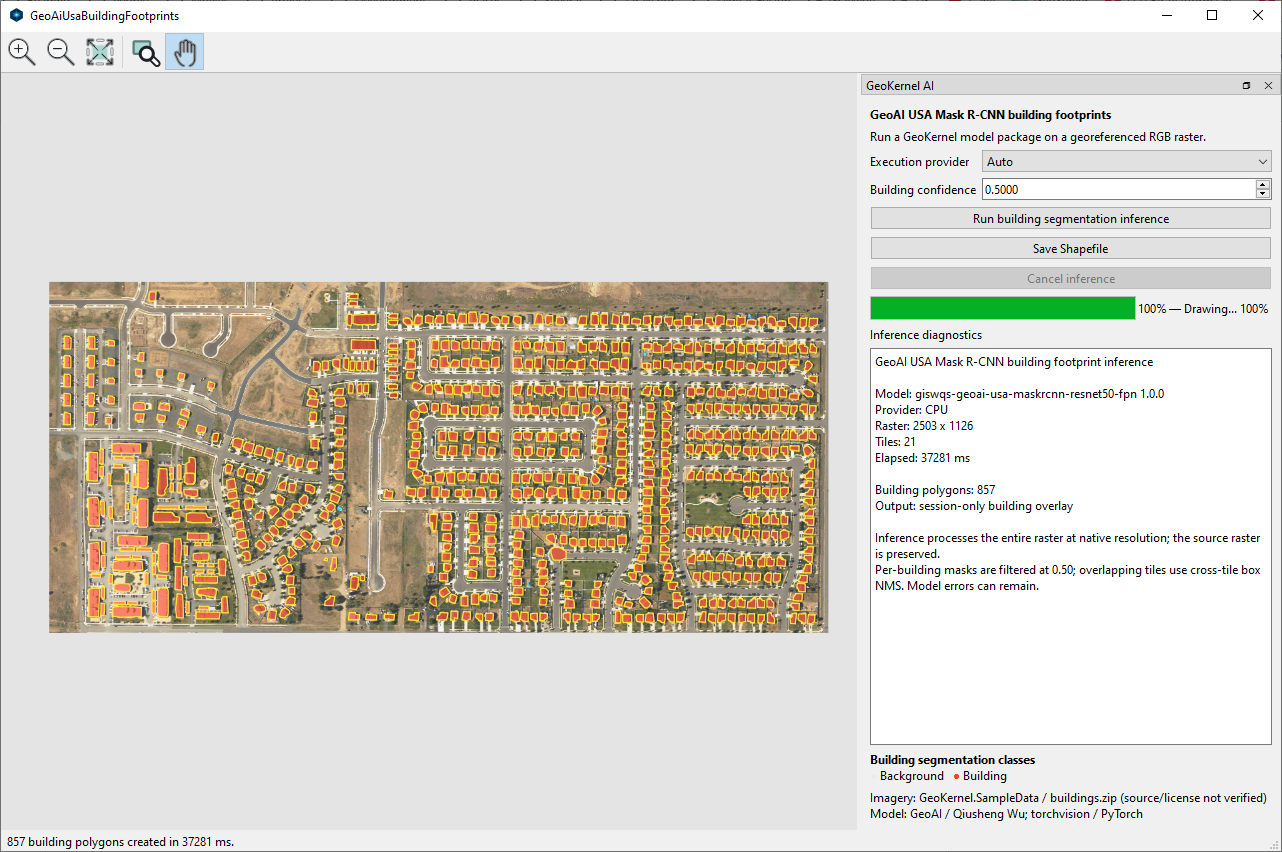
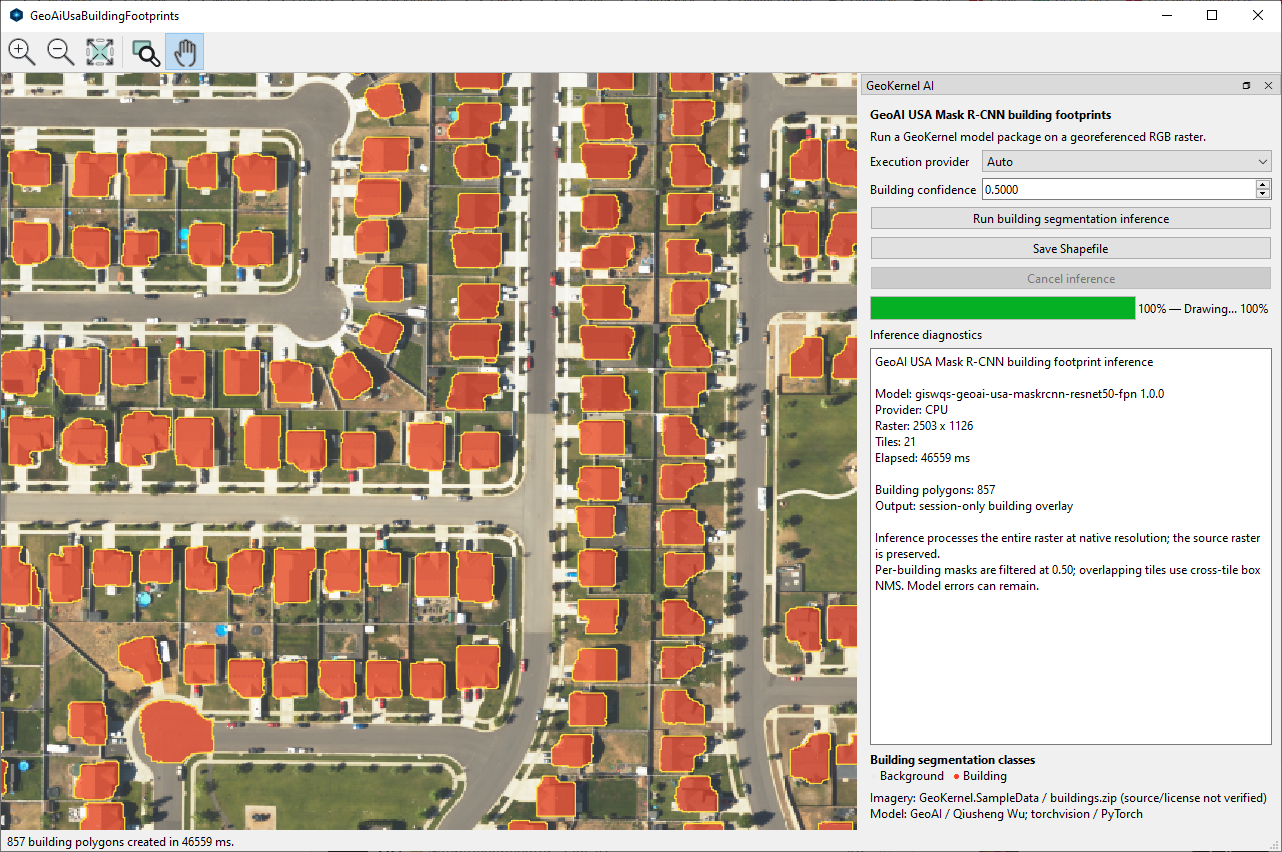
GeoAiUsaBuildingFootprints

diff --git a/GeoAiUsaBuildingFootprints/main.cpp b/GeoAiUsaBuildingFootprints/main.cpp
@@ -80,19 +80,25 @@ QString prepareDataset(const DemoDataset &item, QWidget *parent = nullptr)
     if (!item.localSource)
         return ensureSampleFile(QUrl(QString(DatasetRelease) + item.archive), item.archive,
                                 QString("datasets/%1").arg(item.id), item.raster, parent, item.sha256);
-    const QString destination =
-        QDir(sampleDataPath()).filePath(QString("datasets/%1/%2").arg(item.id, item.raster));
+
+    const QString destination = QDir(sampleDataPath()).filePath(QString("datasets/%1/%2").arg(item.id, item.raster));
+    
     if (QFileInfo::exists(destination))
         return destination;
+    
     const QString source = qEnvironmentVariable(item.localEnvironment, item.localSource);
+    
     if (!QFileInfo::exists(source))
         return {};
+    
     QDir().mkpath(QFileInfo(destination).absolutePath());
+    
     if (!QFile::copy(source, destination))
     {
         sampleError(parent, "Local sample", "Could not cache the local raster.");
         return {};
     }
+
     return destination;
 }
 

diff --git a/GeoAiUsaBuildingFootprints/README.md b/GeoAiUsaBuildingFootprints/README.md
@@ -52,14 +52,14 @@ Model MIT declaration and PyTorch/torchvision notices remain in the downloaded p
 
 Verified CPU result on the sample: 21 native-resolution tiles, 746 retained instances, 857 valid polygon parts, about 41 seconds on the local test machine. Overlay rendering and reopened Shapefile CRS/count passed. A uniform 512px raster returned zero instances/polygons without error. These are functional checks, not accuracy metrics or guaranteed timings.
 
-## Published SDK1.5.37
+## Published SDK1.5.38
 
-Requires GeoKernel1.5.37 or newer. An empty GEOKERNEL_ROOT downloads the latest public SDK and verifies the release SHA-256. No SDK from GeoKernel/outputs/sam3-sdk is required.
+Requires GeoKernel1.5.38 or newer. An empty GEOKERNEL_ROOT downloads the latest public SDK and verifies the release SHA-256. No SDK from GeoKernel/outputs/sam3-sdk is required.
 
 To replace an older local SDK cached in CMake, configure with:
 
 ```bat
-cmake --preset windows-msvc -DCMAKE_MAKE_PROGRAM=C:/Ninja/ninja.exe -DCMAKE_PREFIX_PATH=C:/Qt/6.11.0/msvc2022_64 -DGEOKERNEL_ROOT= -UGeoKernel_DIR -DGEOKERNEL_SDK_VERSION=1.5.37
+cmake --preset windows-msvc -DCMAKE_MAKE_PROGRAM=C:/Ninja/ninja.exe -DCMAKE_PREFIX_PATH=C:/Qt/6.11.0/msvc2022_64 -DGEOKERNEL_ROOT= -UGeoKernel_DIR -DGEOKERNEL_SDK_VERSION=1.5.38
 cmake --build --preset windows-msvc-release
 ```
 
